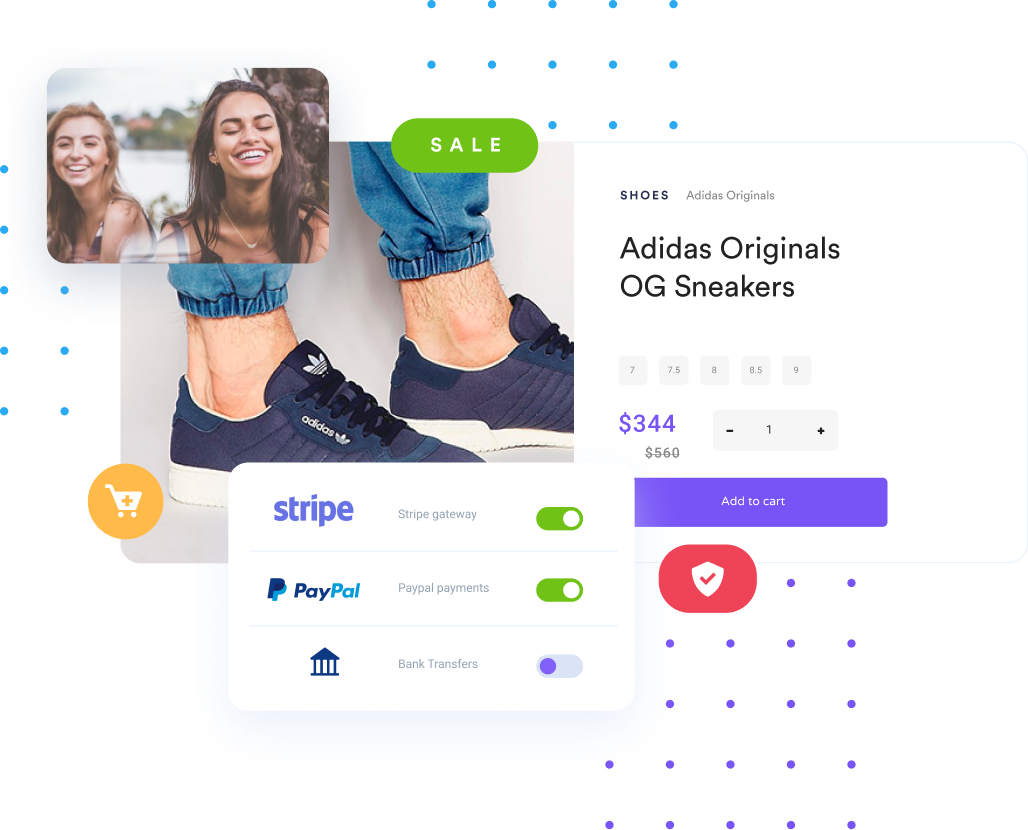
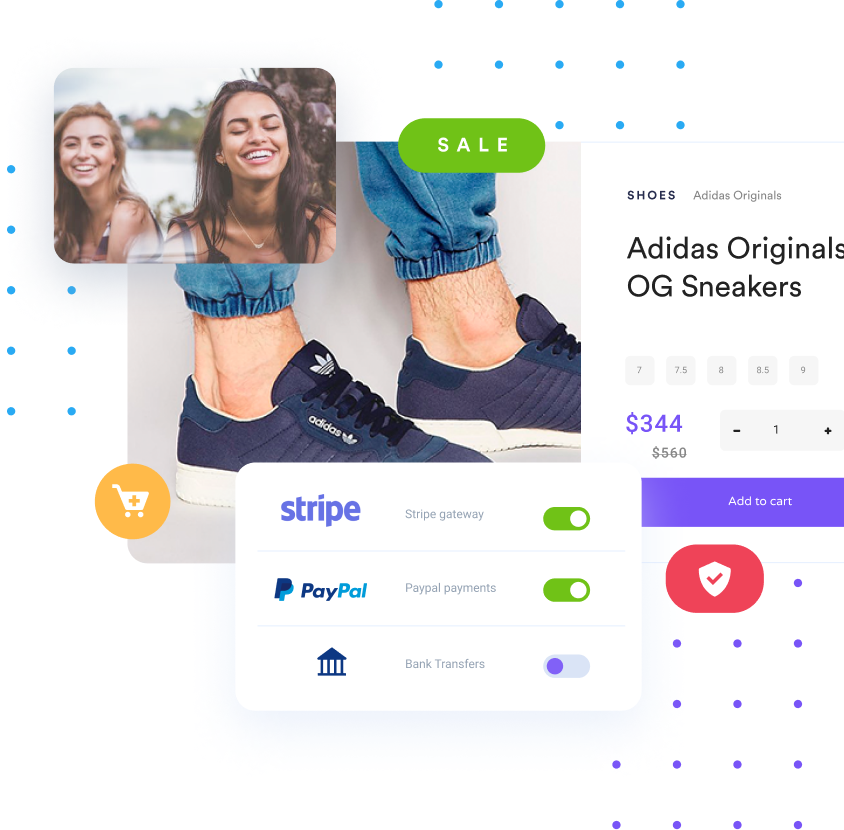
create responsive design for hero

diff --git a/src/components/Hero_section.jsx b/src/components/Hero_section.jsx
@@ -2,14 +2,13 @@ import React from "react";
 import styled from "styled-components";
 
 import featured_img from '../assets/img/featured-image.png';
+import w from '../assets/img/w.png';
 import { Header } from "./Header";
 import { StyledButtton } from "./StyledComponets/StyledButton";
 
 const StyledHero = styled.div`
     background: linear-gradient(180deg, #E5EFFF 0%, rgba(229, 239, 255, 0.262661) 83.7%, rgba(229, 239, 255, 0) 100%);
     height: 118.8rem;
-    display: flex;
-    justify-content: center;
     width: 100vw;
     z-index: -1;
     
@@ -19,21 +18,43 @@ const StyledHero = styled.div`
         z-index: 1;
     }
 
-    & > svg {
-        position: absolute;
-        left: 49.84%;
-        right: -41.88%;
-        top: -9.72%;
-        bottom: 81.76%;
+    & img {
+        -webkit-user-drag: none;
+        user-select: none;
+        -moz-user-select: none;
+        -webkit-user-select: none;
+        -ms-user-select: none;
     }
 
-    & > img {
+
+    & > img#w {
         position: absolute;
-        width: 102.8rem;
-        height: 82.9rem;
-        right: -19.1rem;
-        top: 18rem;
+        top: 0;
+        right: 0;
     }
+
+    & > img#featured {
+        position: absolute;
+        height: 82.9rem;
+        right: 0;
+        top: 18rem;
+        transition: all 0.5s ease-in-out;
+        
+        @media (max-width: 1700px) {
+            height: 60rem;
+            top: 28rem
+        }
+
+        @media (max-width: 1400px) {
+            top: 85rem;
+        }
+
+        @media (max-width: 700px) {
+            right: 100%;
+        }
+
+    }
+
 
     & header {
         z-index: 3;
@@ -53,12 +74,41 @@ const StyledParagraph = styled.div`
     z-index: 2;
     gap: 3rem;
 
+    @media (max-width: 1200px) {
+        position: relative;
+        max-width: auto;
+        left: auto;
+        top: 20rem;
+        margin: 0 auto;
+        padding: 0 4rem;
+    }
+
+    @media (max-width: 600px) {
+        position: relative;
+        max-width: auto;
+        left: auto;
+        top: 15rem;
+        margin: 0 auto;
+        padding: 0 4rem;
+    }
+    
     & > h2 {
         font-family: ${props => props.theme.font.secundary};
         color: ${props => props.theme.color.dark_blue};
         font-size: ${props => props.theme.font_size.extra};
         line-height: 9.5rem;
         font-weight: bold;
+        transition: all 0.5s ease-in-out;
+        
+        @media (max-width: 700px) {
+            font-size: ${props => props.theme.font_size.bigger};
+            line-height: 7rem;
+        }
+
+        @media (max-width: 400px) {
+            font-size: ${props => props.theme.font_size.big};
+            line-height: 4.5rem;
+        }
     }
 
     & p {
@@ -83,6 +133,7 @@ const StyledParagraph = styled.div`
         cursor: pointer;
     }
 
+
 `;
 
 export const Hero = () => {
@@ -100,11 +151,9 @@ export const Hero = () => {
                 </div>
             </StyledParagraph>
 
-            <svg width="963" height="1087" viewBox="0 0 963 1087" fill="none" xmlns="http://www.w3.org/2000/svg">
-                <path opacity="0.6" d="M28.8561 -452.987C52.8498 -485.635 88.8403 -502.819 136.828 -506.255C224.233 -513.129 273.934 -471.889 285.931 -382.536C339.06 -23.4058 397.33 280.738 459.028 529.895L834.357 -186.647C868.634 -251.943 911.48 -286.31 962.895 -289.746C1038.3 -294.901 1084.58 -246.788 1103.43 -145.407C1146.27 83.1301 1201.12 277.301 1266.24 442.26C1310.8 5.80567 1386.21 -308.648 1492.47 -502.819C1518.18 -550.932 1555.88 -574.988 1605.58 -578.425C1645 -581.861 1680.99 -569.833 1713.55 -544.058C1746.12 -518.283 1763.25 -485.636 1766.68 -446.114C1768.4 -415.184 1763.25 -389.409 1749.54 -363.634C1682.7 -239.915 1627.86 -31.9973 1583.3 256.681C1540.46 536.768 1525.03 754.995 1535.31 911.363C1538.74 954.321 1531.89 992.124 1514.75 1024.77C1494.18 1062.58 1463.33 1083.2 1423.92 1086.63C1379.36 1090.07 1333.08 1069.45 1288.52 1023.05C1129.14 859.813 1002.31 615.811 909.766 291.048C798.367 510.994 716.103 675.953 662.974 785.925C561.858 980.096 476.166 1079.76 404.186 1084.91C357.912 1088.35 318.494 1048.83 284.217 966.35C196.812 741.249 102.551 306.513 1.43496 -337.859C-3.70654 -382.536 4.86246 -422.057 28.8561 -452.987Z" fill="white" />
-            </svg>
+            <img id="w" src={w} alt="w" />
 
-            <img src={featured_img} alt="featured_image" />
+            <img id="featured" src={featured_img} alt="featured_image" />
 
         </StyledHero>
     );

diff --git a/src/components/StyledComponets/StyledButton.jsx b/src/components/StyledComponets/StyledButton.jsx
@@ -12,6 +12,10 @@ export const StyledButtton = styled.button`
     border: 0;
     cursor: pointer;
     transition: all 0.3s ease-in-out;
+    
+    @media (max-width: 600px) {
+        padding: 1rem 2rem;
+    }
 
     &:hover {
         background-color: ${props => props.theme.color.dark_purple};
